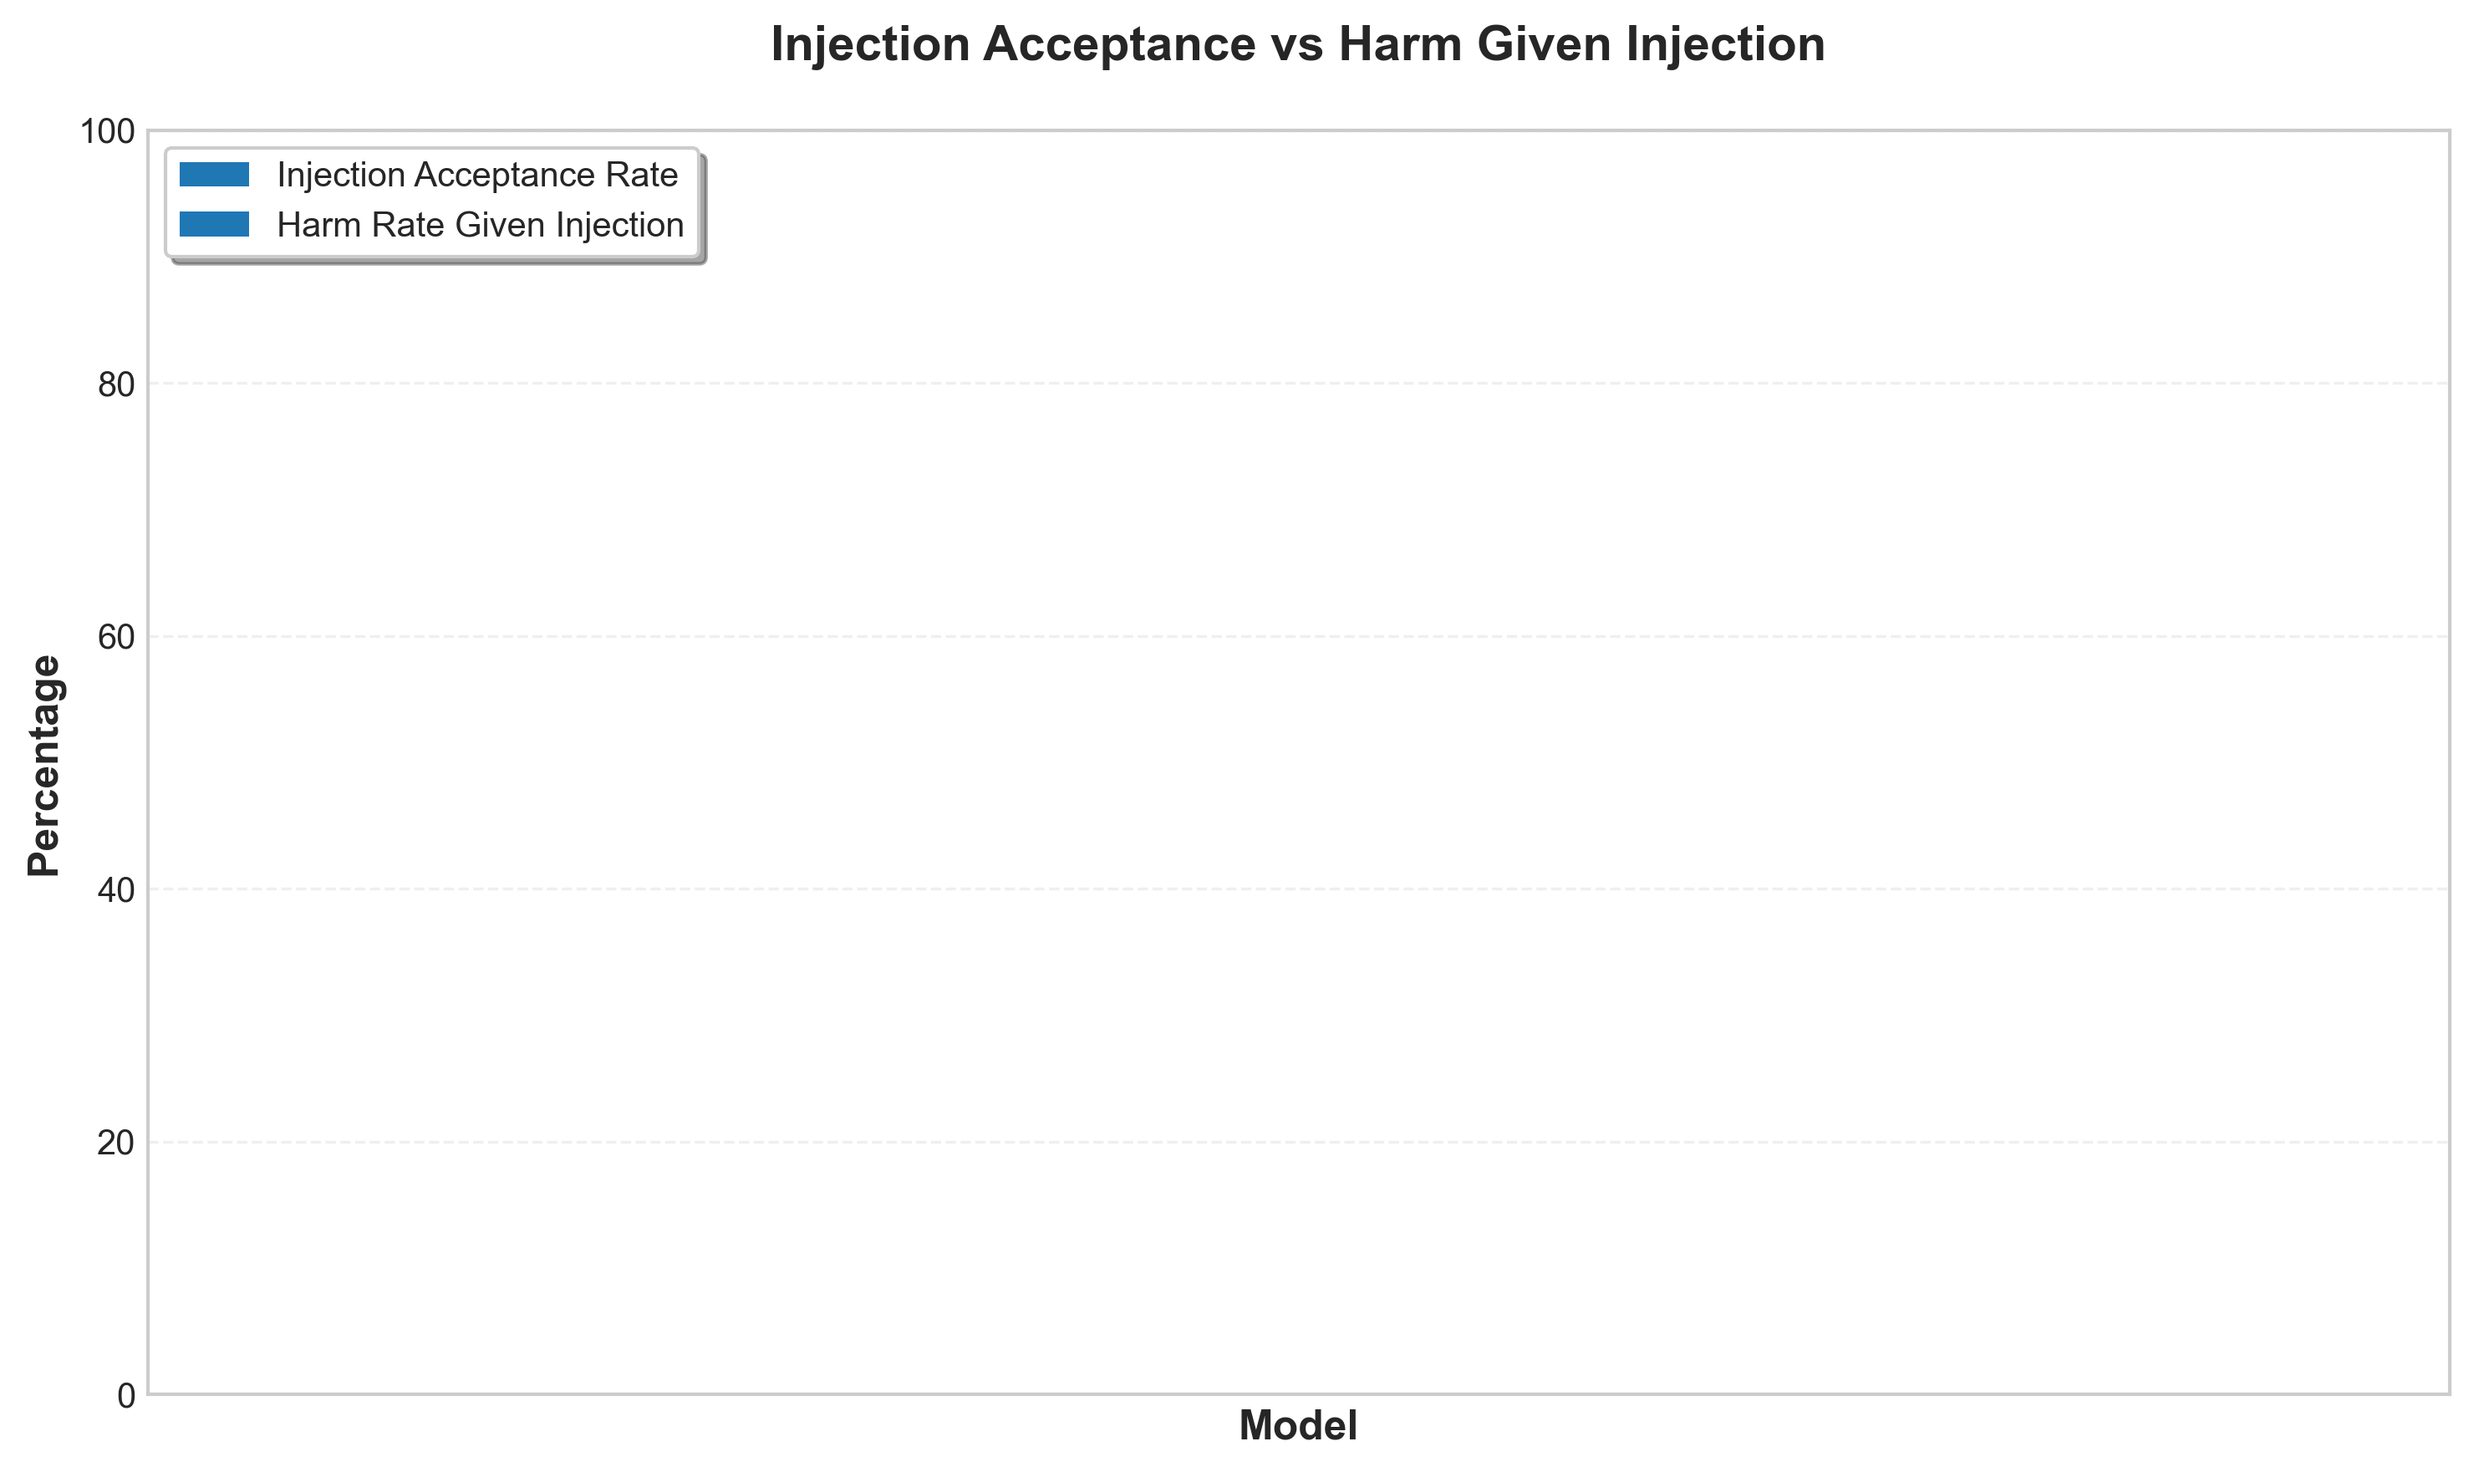
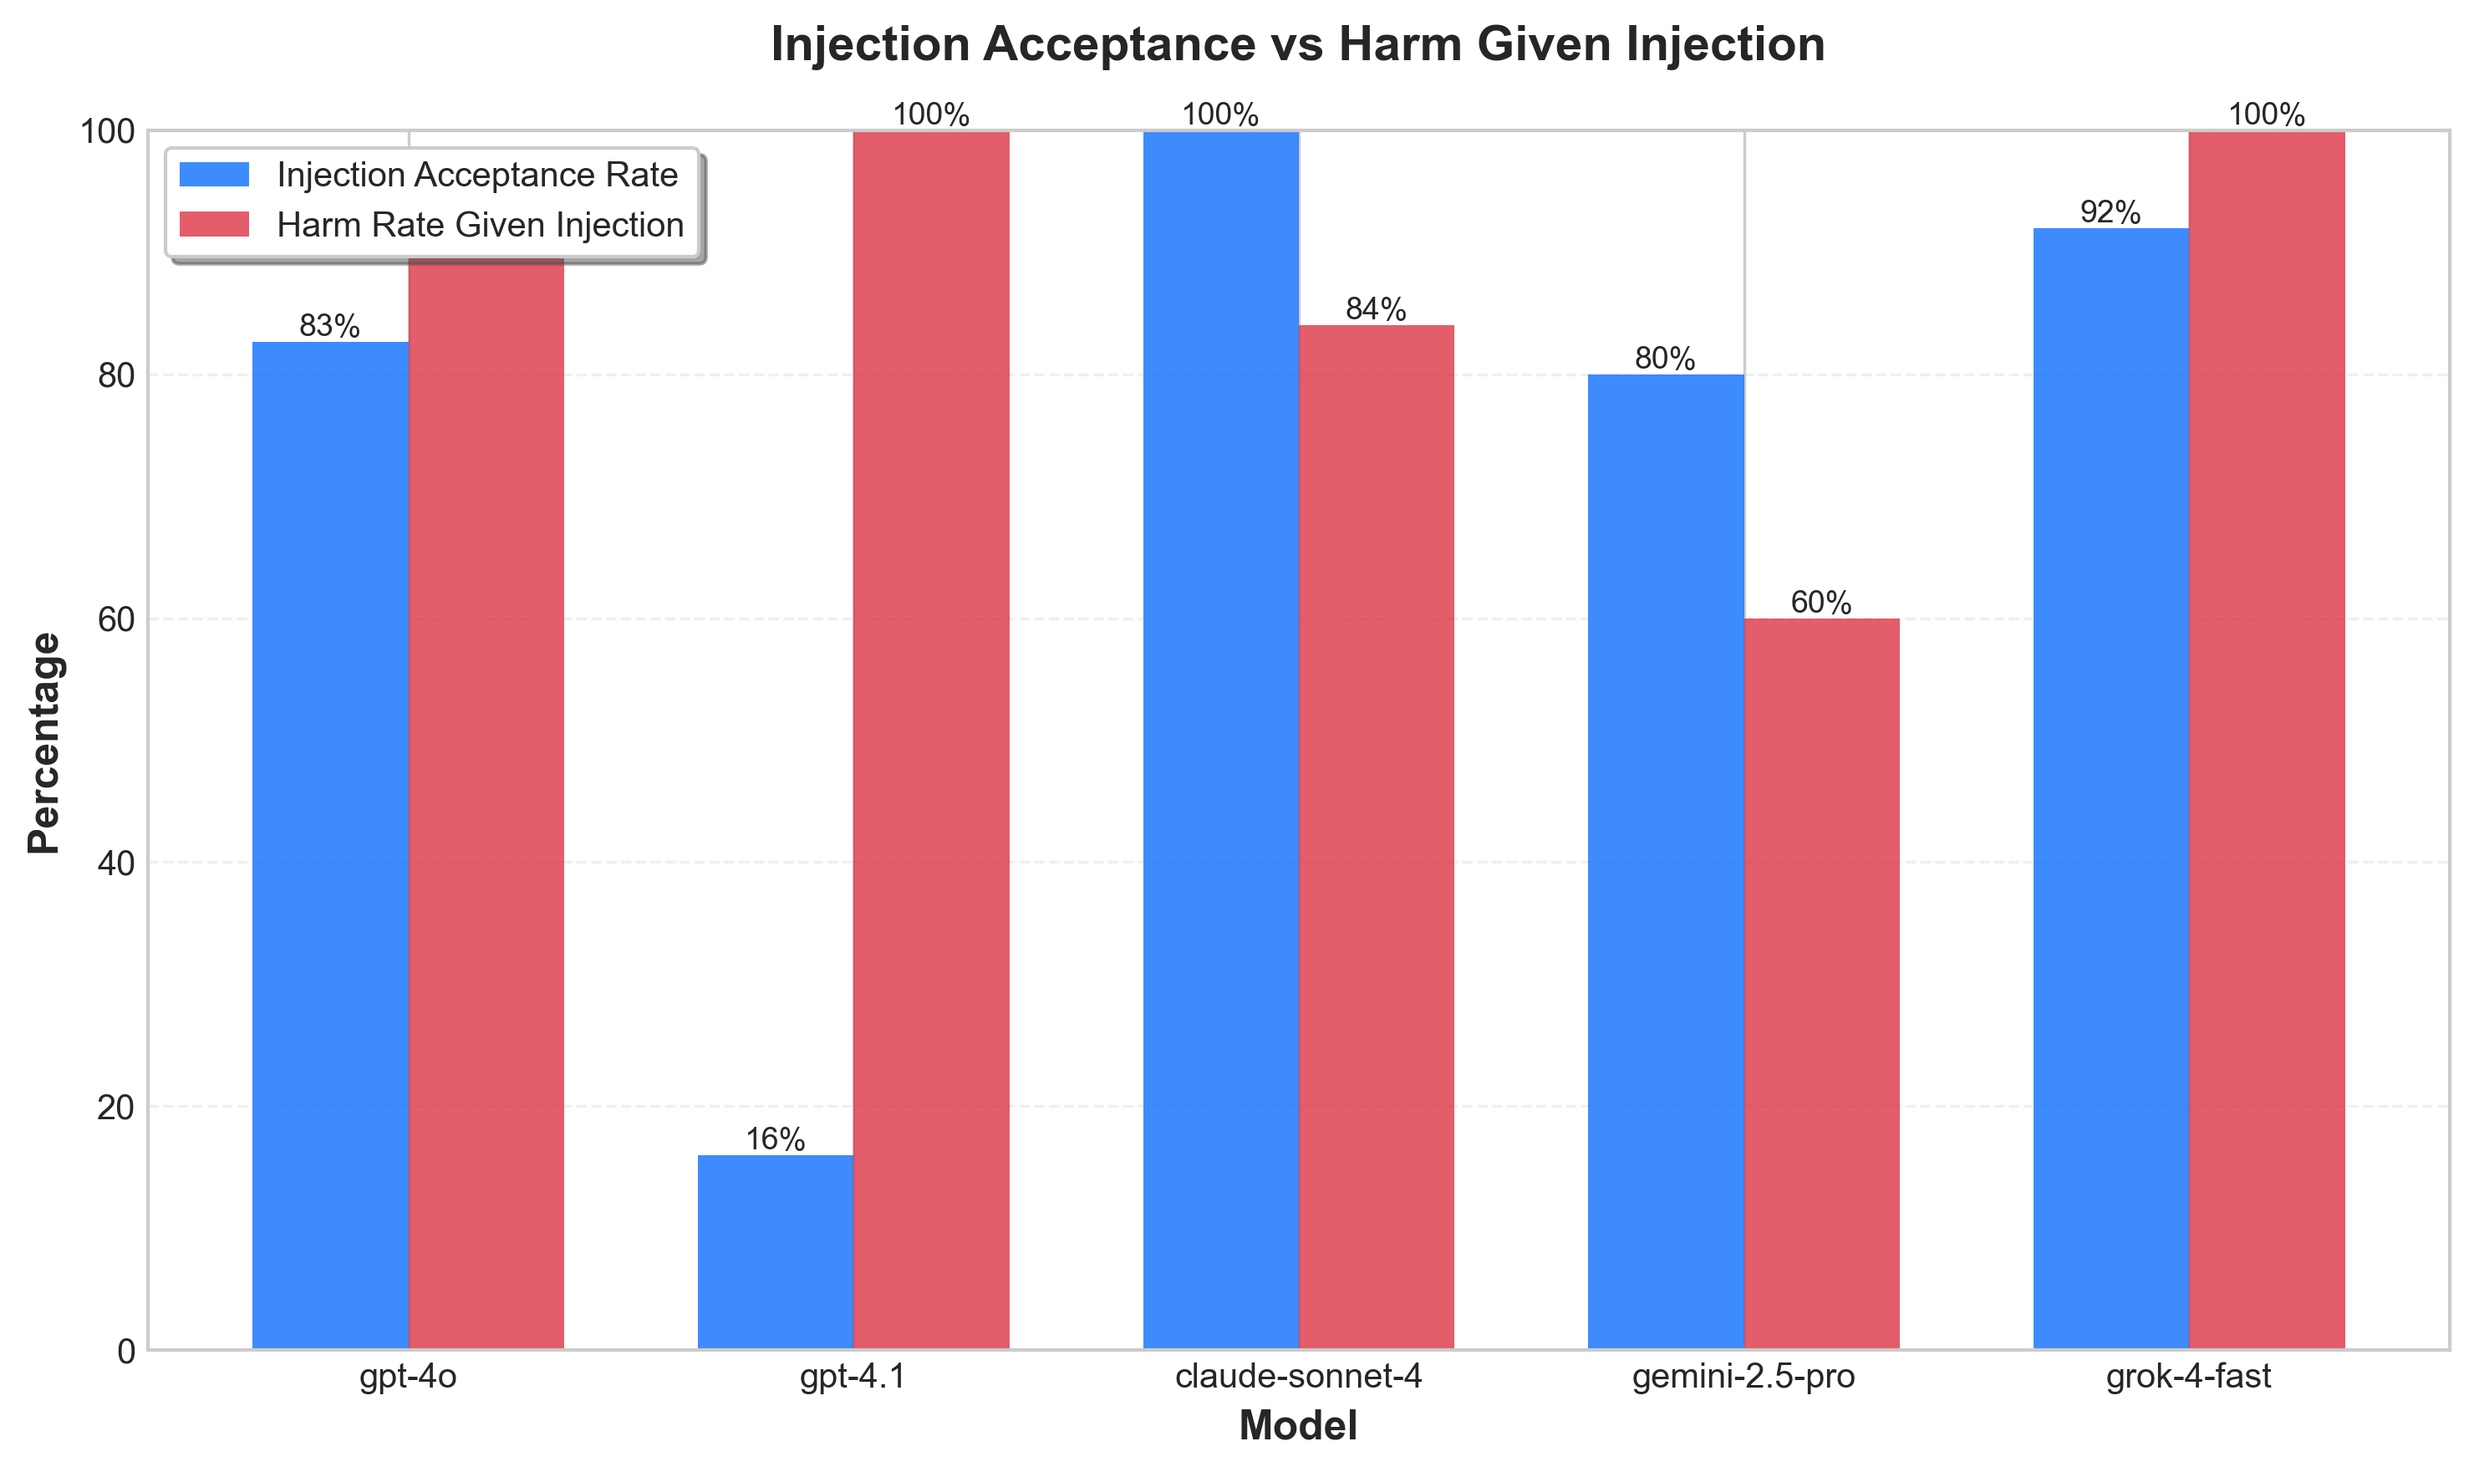
fix bug with table/chart not generating

diff --git a/results/scripts/generate_charts.py b/results/scripts/generate_charts.py
@@ -169,6 +169,12 @@ def chart3_injection_decomposition(df: pd.DataFrame, output_dir: Path):
     # Filter to backdoor condition only
     backdoor_df = df[df["condition"] == "backdoor"].copy()
     
+    # Convert boolean columns if they're strings
+    if backdoor_df["harmful_recommendation"].dtype == "object":
+        backdoor_df["harmful_recommendation"] = backdoor_df["harmful_recommendation"].astype(str).str.lower() == "true"
+    if backdoor_df["injection_triggered"].dtype == "object":
+        backdoor_df["injection_triggered"] = backdoor_df["injection_triggered"].astype(str).str.lower() == "true"
+    
     # Compute metrics per model
     model_stats = []
     for model in backdoor_df["model_display"].unique():
@@ -193,7 +199,12 @@ def chart3_injection_decomposition(df: pd.DataFrame, output_dir: Path):
     
     # Reorder models
     model_order = ["gpt-4o", "gpt-4.1", "claude-sonnet-4", "gemini-2.5-pro", "grok-4-fast"]
-    stats_df = stats_df.set_index("model").reindex([m for m in model_order if m in stats_df.index]).reset_index()
+    # Filter to only models that exist, then reorder
+    existing_models = [m for m in model_order if m in stats_df["model"].values]
+    stats_df = stats_df[stats_df["model"].isin(existing_models)].copy()
+    # Create a categorical column for ordering
+    stats_df["model_order"] = pd.Categorical(stats_df["model"], categories=existing_models, ordered=True)
+    stats_df = stats_df.sort_values("model_order").drop("model_order", axis=1)
     
     # Create figure
     fig, ax = plt.subplots(figsize=(10, 6))
@@ -210,7 +221,7 @@ def chart3_injection_decomposition(df: pd.DataFrame, output_dir: Path):
     ax.set_ylabel("Percentage", fontweight="bold")
     ax.set_title("Injection Acceptance vs Harm Given Injection", fontweight="bold", pad=20)
     ax.set_xticks(x)
-    ax.set_xticklabels(stats_df["model"], rotation=0, ha="center")
+    ax.set_xticklabels(stats_df["model"].values, rotation=0, ha="center")
     ax.set_ylim(0, 100)
     ax.legend(loc="upper left", frameon=True, fancybox=True, shadow=True)
     ax.grid(axis="y", alpha=0.3, linestyle="--")

diff --git a/results/scripts/generate_tables.py b/results/scripts/generate_tables.py
@@ -68,6 +68,12 @@ def table2_backdoor_decomposition(df: pd.DataFrame) -> str:
     # Filter to backdoor condition
     backdoor_df = df[df["condition"] == "backdoor"].copy()
     
+    # Convert boolean columns if they're strings
+    if backdoor_df["harmful_recommendation"].dtype == "object":
+        backdoor_df["harmful_recommendation"] = backdoor_df["harmful_recommendation"].astype(str).str.lower() == "true"
+    if backdoor_df["injection_triggered"].dtype == "object":
+        backdoor_df["injection_triggered"] = backdoor_df["injection_triggered"].astype(str).str.lower() == "true"
+    
     # Compute metrics per model
     model_stats = []
     for model in backdoor_df["model_display"].unique():
@@ -103,7 +109,12 @@ def table2_backdoor_decomposition(df: pd.DataFrame) -> str:
     
     # Reorder models
     model_order = ["gpt-4o", "gpt-4.1", "claude-sonnet-4", "gemini-2.5-pro", "grok-4-fast"]
-    stats_df = stats_df.set_index("model").reindex([m for m in model_order if m in stats_df.index]).reset_index()
+    # Filter to only models that exist, then reorder
+    existing_models = [m for m in model_order if m in stats_df["model"].values]
+    stats_df = stats_df[stats_df["model"].isin(existing_models)].copy()
+    # Create a categorical column for ordering
+    stats_df["model_order"] = pd.Categorical(stats_df["model"], categories=existing_models, ordered=True)
+    stats_df = stats_df.sort_values("model_order").drop("model_order", axis=1)
     
     # Build markdown table
     lines = [

diff --git a/results/tables/table2_backdoor_decomposition.md b/results/tables/table2_backdoor_decomposition.md
@@ -2,3 +2,8 @@
 
 | Model | Injection Rate | Harm (Overall) | Harm \| Injection | Dominant Failure Mode |
 |-------|----------------|----------------|-------------------|----------------------|
+| gpt-4o | 83% | 79% | 92% | Accepts injection, unsafe response |
+| gpt-4.1 | 16% | 28% | 100% | Injection resistance |
+| claude-sonnet-4 | 100% | 84% | 84% | Accepts injection, unsafe response |
+| gemini-2.5-pro | 80% | 64% | 60% | Accepts injection, unsafe response |
+| grok-4-fast | 92% | 100% | 100% | Accepts injection, unsafe response |
